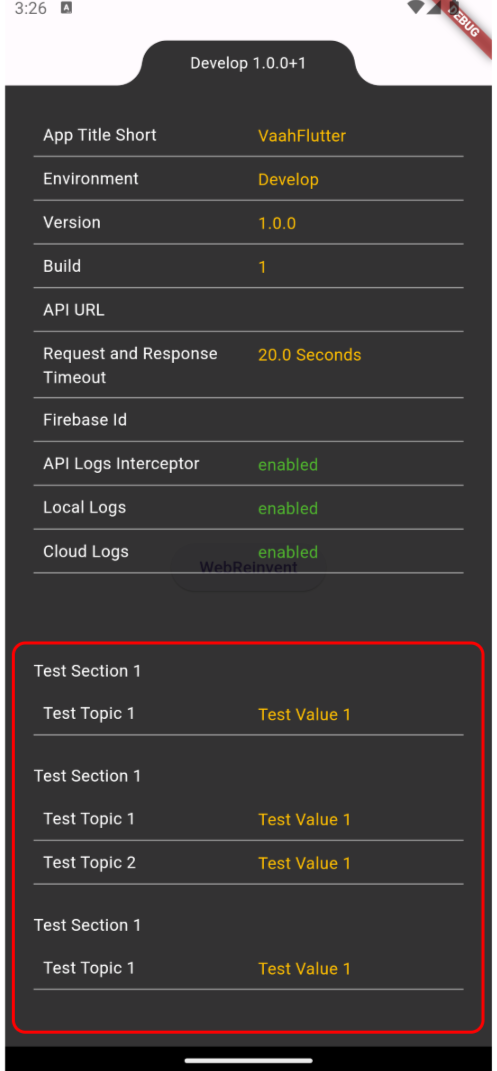
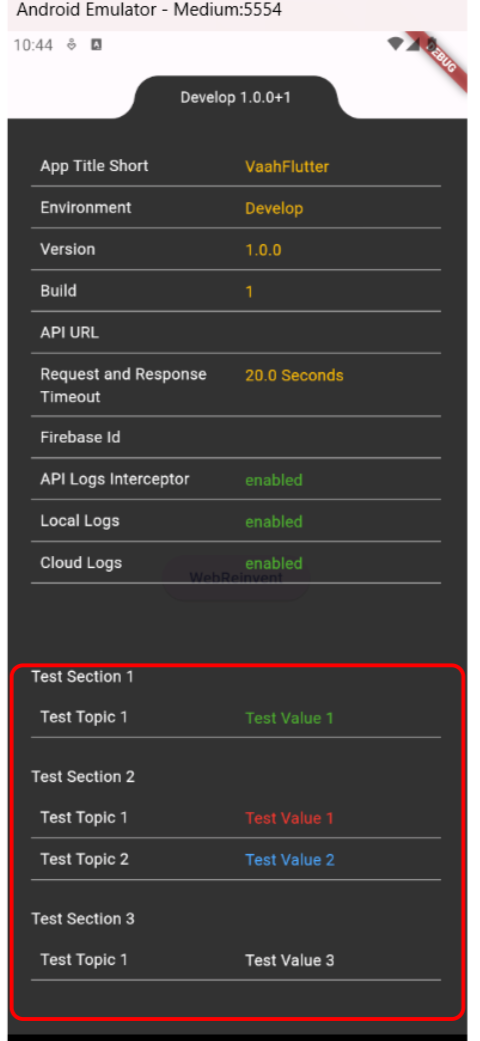
Updated: improved readability

Changed region(s): [[0.0, 0.0, 1.0, 1.0]]

diff --git a/content/7.vaahflutter/4.core/3.debugpanel.md b/content/7.vaahflutter/4.core/3.debugpanel.md
@@ -67,94 +67,56 @@ return MaterialApp(
 );
 ```
 
-## Add a custom section to the debug panel
+## Adding a Custom Section to the Debug Panel
 
 ### About Custom Section
-Custom Section is a widget responsible for displaying custom data when a developer wants to display some data not natively included in the debug panel or environment configuration. 
 
-Before adding a custom section, there are three components to understand in the custom section widget. 
+A Custom Section is a widget responsible for displaying custom data when a developer wants to showcase information not natively included in the debug panel or environment configuration.
 
-#### **`custom_debug_sections`**
-- **Type**: Array of Objects
-- **Description**: This is the main array that contains all the custom sections to be added to the debug panel.
+### Components of the Custom Section Widget
 
-**Array Elements**
+Before adding a custom section, it's important to understand three main components:
 
-Each element in the `custom_debug_sections` array represents a section in the debug panel.
+1. **custom_debug_sections** (Type: Array of Objects)
+   - **Description**: This is the main array that contains all the custom sections to be added to the debug panel.
 
-**Section Object**
-- `section_name`
+2. **Array Elements**
+   - Each element in the `custom_debug_sections` array represents a section in the debug panel.
 
-  - **Type**: String
-  - **Description**: The name of the section to be displayed in the debug panel.
-- `content_holder`
+3. **Section Object**
+   - **section_name** (Type: String)
+     - **Description**: The name of the section to be displayed in the debug panel.
+   - **content_holder** (Type: Object)
+     - **Description**: Holds the content for the section in a structured format.
+   - **content** (Type: Object)
+     - **Description**: Contains the key-value pairs that will be displayed as a table within the section.
+     - **Key** (e.g., "Test Topic 1")
+       - **Type**: String
+       - **Description**: Represents the topic or the row heading in the table.
+     - **Value**
+       - **Type**: Object
+       - **Description**: The value object holds the actual content for the topic.
+       - **value** (Type: String)
+         - **Description**: The value corresponding to the topic which will be displayed in the table.
+       - **color** (Type: int, optional)
+         - **Description**: The color code for the value. If not provided, the default color will be `Warning`.
+         - **Example Colors**:
+           - **Success**: 4283413805
+           - **Warning**: 4294950656
+           - **Danger**: 4294916141
+           - **Info**: 4283214079
+           - **White**: 4294967295
+           - **Black**: 4278190080
 
-  - **Type**: Object
-  - **Description**: Holds the `content` for the section in a structured format.
+### Example JSON Configuration
 
-  - `content`
-    - **Type**: Object
-    - **Description**: Contains the key-value pairs that will be displayed as a table within the section.
-    - `Key (e.g., "Test Topic 1")`
-      - **Type**: String
-      - **Description**: Represents the topic or the row heading in the table.
-    - `Value`
-        - **Type**: Object
+To display custom data on the debug panel, add the data to the relevant JSON configuration file (`develop.json`, `staging.json`, `production.json`, etc.).
 
-        - **Description**: The value object holds the actual content for the topic.
-
-        - `value`
-          - **Type**: String
-          - **Description**: The value corresponding to the topic which will be displayed in the table.
-        - `color`
-          - **Type**: int
-          - **Description**: The color code for the value. If not provided, the default color will be `warning`.
-
-        ##### Some example colors that can be used to change the text color for `value`
-        <div style="display: flex; flex-direction: row; flex-wrap: wrap;">
-          <div style="display: flex; flex-direction: column; align-items: center; margin: 10px;">
-            <span>Success</span>
-            <span>4283413805</span>
-            <div style="width: 40px; height: 40px; background-color: #4CAF50; margin: 5px;"></div>
-          </div>
-          <div style="display: flex; flex-direction: column; align-items: center; margin: 10px;">
-            <span>Warning</span>
-            <span>4294950656</span>
-            <div style="width: 40px; height: 40px; background-color: #FFC107; margin: 5px;"></div>
-          </div>
-          <div style="display: flex; flex-direction: column; align-items: center; margin: 10px;">
-            <span>Danger</span>
-            <span>4294916141</span>
-            <div style="width: 40px; height: 40px; background-color: #FF5722; margin: 5px;"></div>
-          </div>
-          <div style="display: flex; flex-direction: column; align-items: center; margin: 10px;">
-            <span>Info</span>
-            <span>4283214079</span>
-            <div style="width: 40px; height: 40px; background-color: #2196F3; margin: 5px;"></div>
-          </div>
-          <div style="display: flex; flex-direction: column; align-items: center; margin: 10px;">
-            <span>White</span>
-            <span>4294967295</span>
-            <div style="width: 40px; height: 40px; background-color: #FFFFFF; margin: 5px; border: 1px solid #000;"></div>
-          </div>
-          <div style="display: flex; flex-direction: column; align-items: center; margin: 10px;">
-            <span>Black</span>
-            <span>4278190080</span>
-            <div style="width: 40px; height: 40px; background-color: #000000; margin: 5px;"></div>
-          </div>
-        </div>
-
-### To display custom data on the debug panel, add the data to the JSON file as shown in the snippet below.
-
-Add your data to any of the environment configuration JSON files: `develop.json`, `staging.json`, `production.json`, or any custom JSON file you have created for environment configuration.
-
-For more information about environment configuration, [click here](../3.essentials/2.environments.md).
-
-- You need to add a key to the JSON file, `"custom_debug_sections"`, with a list of maps containing section information as shown below.
+Add a key to the JSON file, `custom_debug_sections`, with a list of objects containing section information as shown below:
 
 ```json
 {
-  ...Other Content
+  // Other Content
 
   "custom_debug_sections": [
     {
@@ -162,30 +124,34 @@ For more information about environment configuration, [click here](../3.essentia
       "content_holder": {
         "content": {
           "Test Topic 1": {
-            "value": "Test Value 1"
+            "value": "Test Value 1",
+            "color": 4283413805
           }
         }
       }
     },
     {
-      "section_name": "Test Section 1",
+      "section_name": "Test Section 2",
       "content_holder": {
         "content": {
           "Test Topic 1": {
-            "value": "Test Value 1"
+            "value": "Test Value 1",
+            "color": 4294916141
           },
           "Test Topic 2": {
-            "value": "Test Value 1"
+            "value": "Test Value 2",
+            "color": 4283214079
           }
         }
       }
     },
     {
-      "section_name": "Test Section 1",
+      "section_name": "Test Section 3",
       "content_holder": {
         "content": {
           "Test Topic 1": {
-            "value": "Test Value 1"
+            "value": "Test Value 3",
+            "color": 4294967295
           }
         }
       }
@@ -199,3 +165,9 @@ For more information about environment configuration, [click here](../3.essentia
 
 <img width="384" src="/images/flutter/custom-debug-panel.png" alt="custom-debug-panel">
 
+### Additional Information
+For more information about environment configuration, refer to the relevant documentation [here](../3.essentials/2.environments.md).
+
+### Summary
+- Understand the Components: Ensure you understand the structure and purpose of `custom_debug_sections`, section objects, and their attributes.
+- Edit the JSON Configuration: Add the `custom_debug_sections` key with the required sections and their content to your environment configuration JSON file.
